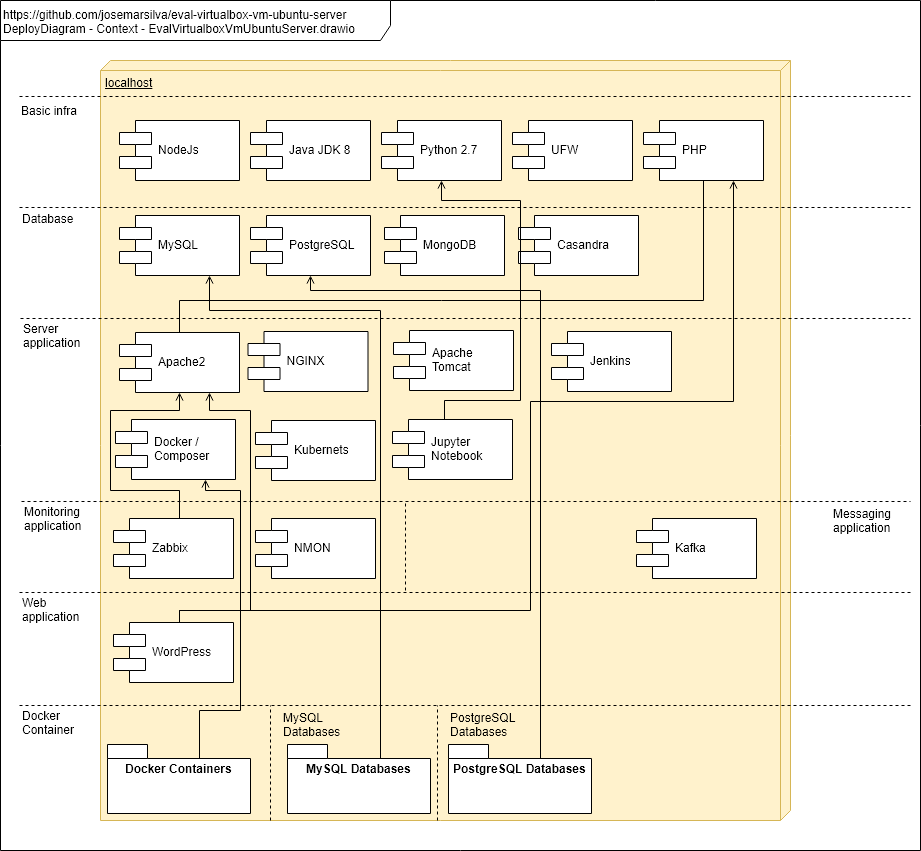
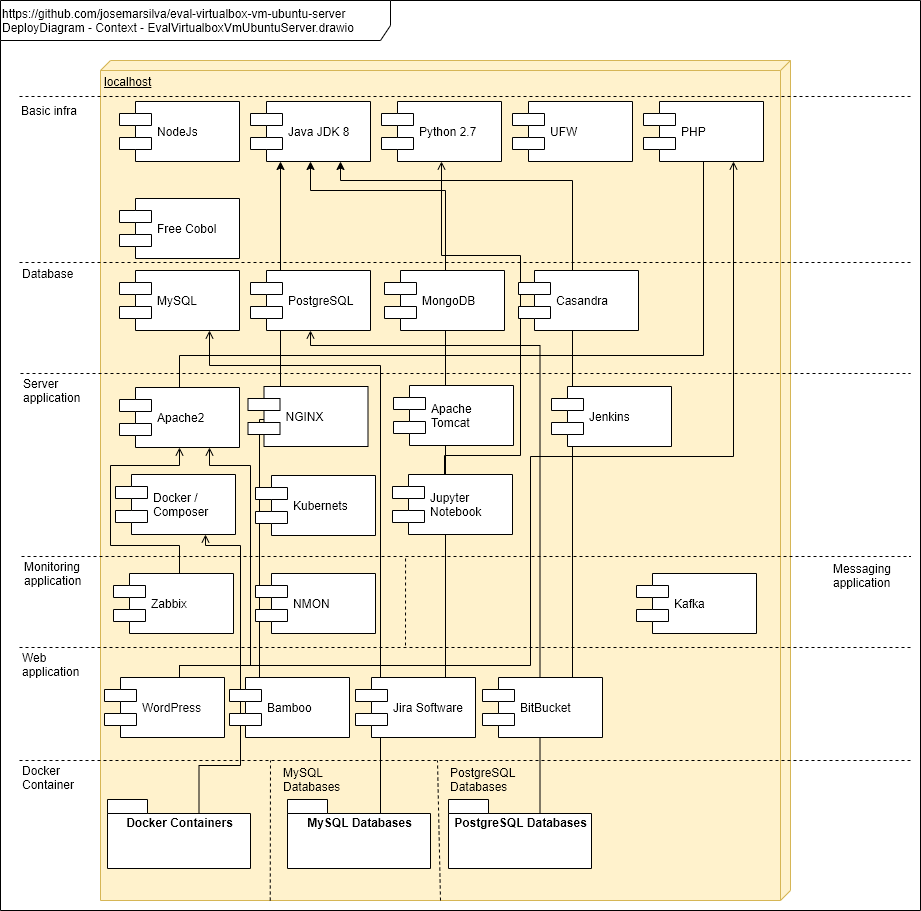
.

diff --git a/README.md b/README.md
@@ -45,6 +45,7 @@ __Normal__:
 * [Maven for Linux](#322-maven-for-linux)
 * [Atlassian Bamboo for Linux Ubuntu](#323-atlassian-bamboo-for-linux-ubuntu)
 * [Atlassian Jira Software Jira Core for Linux Ubuntu](#324-atlassian-jira-software-for-linux-ubuntu)
+* [Atlassian Bitbucket for Linux Ubuntu](#325-atlassian-bitbucket-for-linux-ubuntu)
 
 Low Priority:
 
@@ -871,6 +872,7 @@ jira.home =/opt/atlassian-jira-software-8.7.0-standalone
 4. Iniciar o serviço do Bamboo
 
 ```sh
+$ sudo chown -R ubuntu:ubuntu /opt/atlassian-bamboo-6.10.4/bin
 $ cd /opt/atlassian-bamboo-6.10.4/bin
 $ ls  *.sh
 catalina.sh  setclasspath.sh  shutdown.sh      startup.sh      tool-wrapper.sh
@@ -879,10 +881,30 @@ $ sudo ./start-bamboo.sh
 ```
 
 
-5. [Install Bamboo License step-by-step](doc/README_InstallBambooLicense_StepByStep.md)
+5. Criar Scrit de `start` e `stop` do serviço do Bamboo
+
+```sh
+$ vim start-bamboo.sh
+#!/bin/bash
+
+cd /opt/atlassian-bamboo-6.10.4/bin
+
+./start-bamboo.sh
+```
+
+```sh
+$ vim stop-bamboo.sh
+#!/bin/bash
+
+cd /opt/atlassian-bamboo-6.10.4/bin
+
+./stop-bamboo.sh
+```
+
+6. [Install Bamboo License step-by-step](doc/README_InstallBambooLicense_StepByStep.md)
 
 
-6. Finalizar o serviço do Bamboo
+7. Finalizar o serviço do Bamboo
 
 ```sh
 $ cd /opt/atlassian-bamboo-6.10.4/bin
@@ -927,7 +949,7 @@ $ sudo mkdir /opt/atlassian-jira-core-home
 $ sudo tar -xvf ~/atlassian-jira-core-8.7.0.tar.gz
 ```
 
-3. Configurar o Jira Home
+3. Configurar o Jira Home (Software e Core)
 
 ```sh
 $ sudo mkdir -p /var/atlassian/application-data/jira
@@ -950,9 +972,31 @@ $
 ```
 
 
-4. Iniciar o serviço do Jira Software e Jira Core
+4. Criar Scrit de `start` e `stop` do serviço do Jira (Software e Core)
 
 ```sh
+vim start-jira-software.sh
+#!/bin/bash
+
+cd /opt/atlassian-jira-software-8.7.0-standalone/bin
+
+./start-jira.sh
+```
+
+```sh
+vim stop-jira-software.sh
+#!/bin/bash
+
+cd /opt/atlassian-jira-software-8.7.0-standalone/bin
+
+./stop-jira.sh
+```
+
+
+5. Iniciar o serviço do Jira Software e Jira Core
+
+```sh
+$ sudo chown -R ubuntu:ubuntu /opt/atlassian-bamboo-6.10.4/bin
 $ cd /opt/atlassian-jira-software-8.7.0-standalone/bin
 $ ls  *.sh
 catalina.sh    digest.sh              setenv.sh         stop-jira.sh
@@ -979,6 +1023,108 @@ configtest.sh  setclasspath.sh        start-jira.sh     version.sh
 daemon.sh      setenv32.sh            startup.sh
 $ sudo ./shutdown.sh
 ```
+
+
+#### b. Configuration management
+
+* n/a
+
+
+#### c. Deploy Diagram
+
+* n/a
+
+#### d. Demonstration
+
+* n/a
+
+
+---
+#### 3.25. Atlassian Bitbucket
+
+#### a. Installation procedure
+
+1. [Download binary step-by-step](doc/README_DownloadBitbucket_StepByStep.md)
+  
+2. Install Bitbucket - from (tar.gz) - Linux Ubuntu
+  
+```sh
+$ mkdir /opt
+$ cd    /opt
+$ tar -xvf ~/atlassian-bitbucket-6.10.0.tar.gz
+$ mkdir /opt/atlassian-bitbucket-data
+```
+
+
+3. Configurar o Bitbucket Data Directory
+
+```sh
+$ cd /opt/atlassian-bitbucket-6.10.0
+$ find . -name build.properties
+./app/WEB-INF/classes/build.properties
+$ vim  ./app/WEB-INF/classes/build.properties
+```
+
+
+4. Iniciar o serviço do Bamboo
+
+```sh
+$ sudo chown -R ubuntu:ubuntu /opt/atlassian-bitbucket-6.10.0
+$ cd /opt/atlassian-bitbucket-6.10.0/bin
+$ ls  *.sh
+install_linux_service.sh  set-jre-home.sh     stop-bitbucket.sh
+set-bitbucket-home.sh     start-bitbucket.sh  _stop-search.sh
+set-bitbucket-user.sh     _start-search.sh    _stop-webapp.sh
+set-jmx-opts.sh           _start-webapp.sh
+$ export JAVA_HOME=/usr/lib/jvm/java-8-openjdk-amd64
+$ export JRE_HOME=/usr/lib/jvm/java-8-openjdk-amd64
+$ export BITBUCKET_HOME=/opt/atlassian-bitbucket-data
+$ ./start-bitbucket.sh
+```
+
+
+5. Criar Scrit de `start` e `stop` do serviço do Bamboo
+
+```sh
+$ vim /opt/start-bitbucket.sh
+#!/bin/bash
+
+cd /opt/atlassian-bitbucket-6.10.0/bin
+
+export JAVA_HOME=/usr/lib/jvm/java-8-openjdk-amd64
+export JRE_HOME=/usr/lib/jvm/java-8-openjdk-amd64
+export BITBUCKET_HOME=/opt/atlassian-bitbucket-data
+
+./start-bitbucket.sh
+```
+
+```sh
+$ vim /opt/stop-bitbucket.sh
+#!/bin/bash
+
+cd /opt/atlassian-bitbucket-6.10.0/bin
+
+export JAVA_HOME=/usr/lib/jvm/java-8-openjdk-amd64
+export JRE_HOME=/usr/lib/jvm/java-8-openjdk-amd64
+export BITBUCKET_HOME=/opt/atlassian-bitbucket-data
+
+./stop-bitbucket.sh
+```
+
+
+6. [Install Bamboo License step-by-step](doc/README_InstallBambooLicense_StepByStep.md)
+
+
+7. Finalizar o serviço do Bamboo
+
+```sh
+$ cd /opt/atlassian-bamboo-6.10.4/bin
+$ ls  *.sh
+catalina.sh  setclasspath.sh  shutdown.sh      startup.sh      tool-wrapper.sh
+digest.sh    setenv.sh        start-bamboo.sh  stop-bamboo.sh  version.sh
+$ sudo ./shutdown.sh -c
+```
+
 
 
 #### b. Configuration management

diff --git a/doc/README_InstallBitbucketLicense_StepByStep.md b/doc/README_InstallBitbucketLicense_StepByStep.md
@@ -1,0 +1,42 @@
+# Instalação da Licença do Bamboo Server
+
+* Passo 01:
+
+![Install Bamboo License](images/Install-Bamboo-License-01.png)
+
+* Passo 02:
+
+![Install Bamboo License](images/Install-Bamboo-License-02.png)
+
+* Passo 03:
+
+![Install Bamboo License](images/Install-Bamboo-License-03.png)
+
+* Passo 04:
+
+![Install Bamboo License](images/Install-Bamboo-License-04.png)
+
+* Passo 05:
+
+![Install Bamboo License](images/Install-Bamboo-License-05.png)
+
+* Passo 06:
+
+![Install Bamboo License](images/Install-Bamboo-License-06.png)
+
+* Passo 07:
+
+![Install Bamboo License](images/Install-Bamboo-License-07.png)
+
+* Passo 08:
+
+![Install Bamboo License](images/Install-Bamboo-License-08.png)
+
+* Passo 09:
+
+![Install Bamboo License](images/Install-Bamboo-License-09.png)
+
+* Passo 10:
+
+![Install Bamboo License](images/Install-Bamboo-License-10.png)
+

diff --git a/doc/README_DownloadJiraBitbucket_StepByStep.md b/doc/README_DownloadJiraBitbucket_StepByStep.md
@@ -1,0 +1,22 @@
+# Download BitBucket Step-by-Step
+
+* Passo 01:
+
+![Download BitBucket](images/printscreen-bitbucket-download-01.png)
+
+* Passo 02:
+
+![Download BitBucket](images/printscreen-bitbucket-download-02.png)
+
+* Passo 03:
+
+![Download BitBucket](images/printscreen-bitbucket-download-03.png)
+
+* Passo 04:
+
+![Download BitBucket](images/printscreen-bitbucket-download-04.png)
+
+* Passo 05:
+
+![Download BitBucket](images/printscreen-bitbucket-download-05.png)
+
